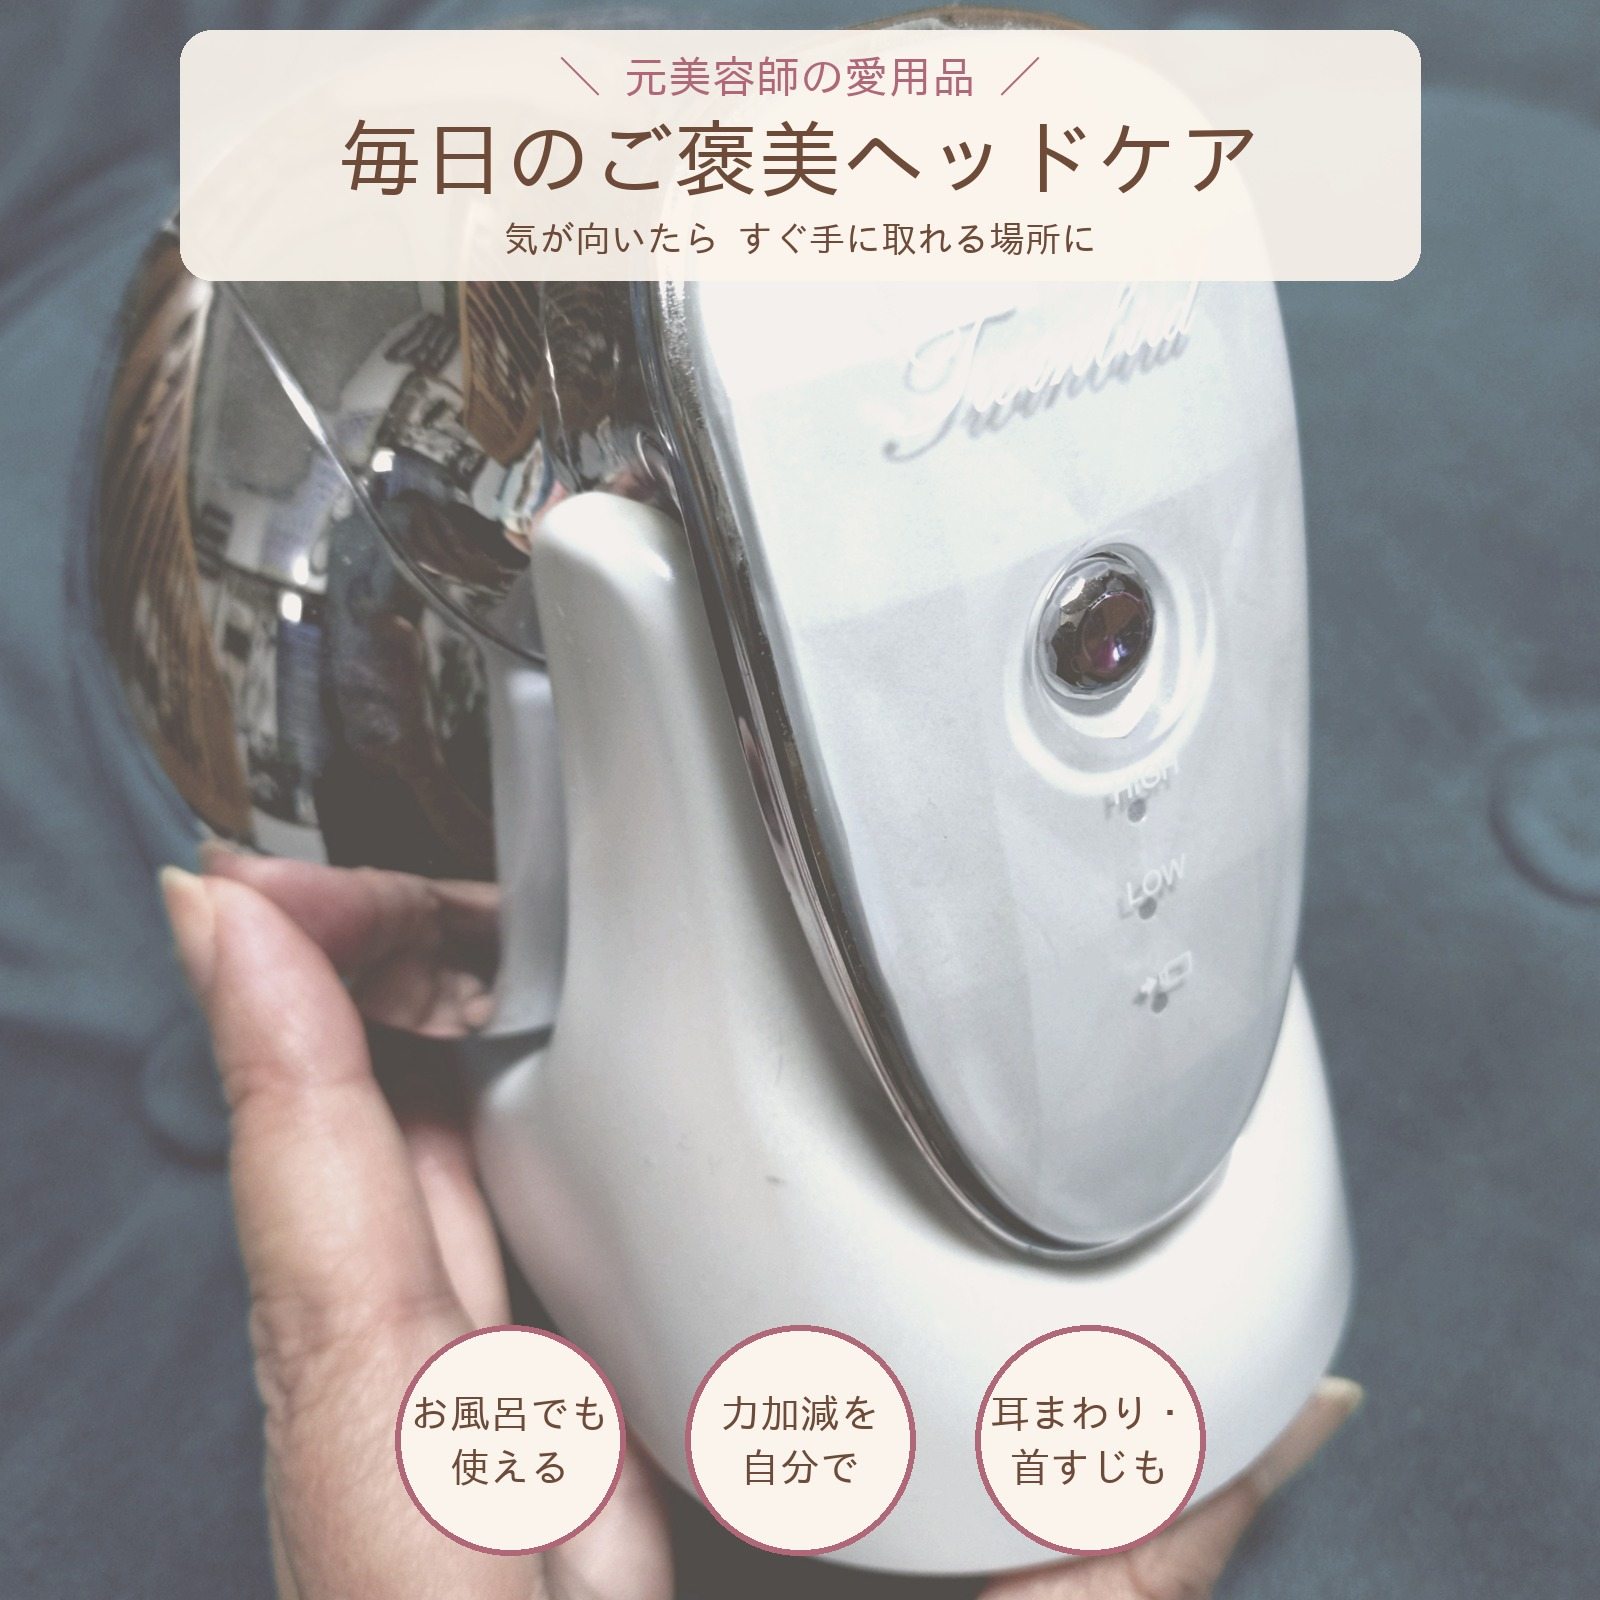
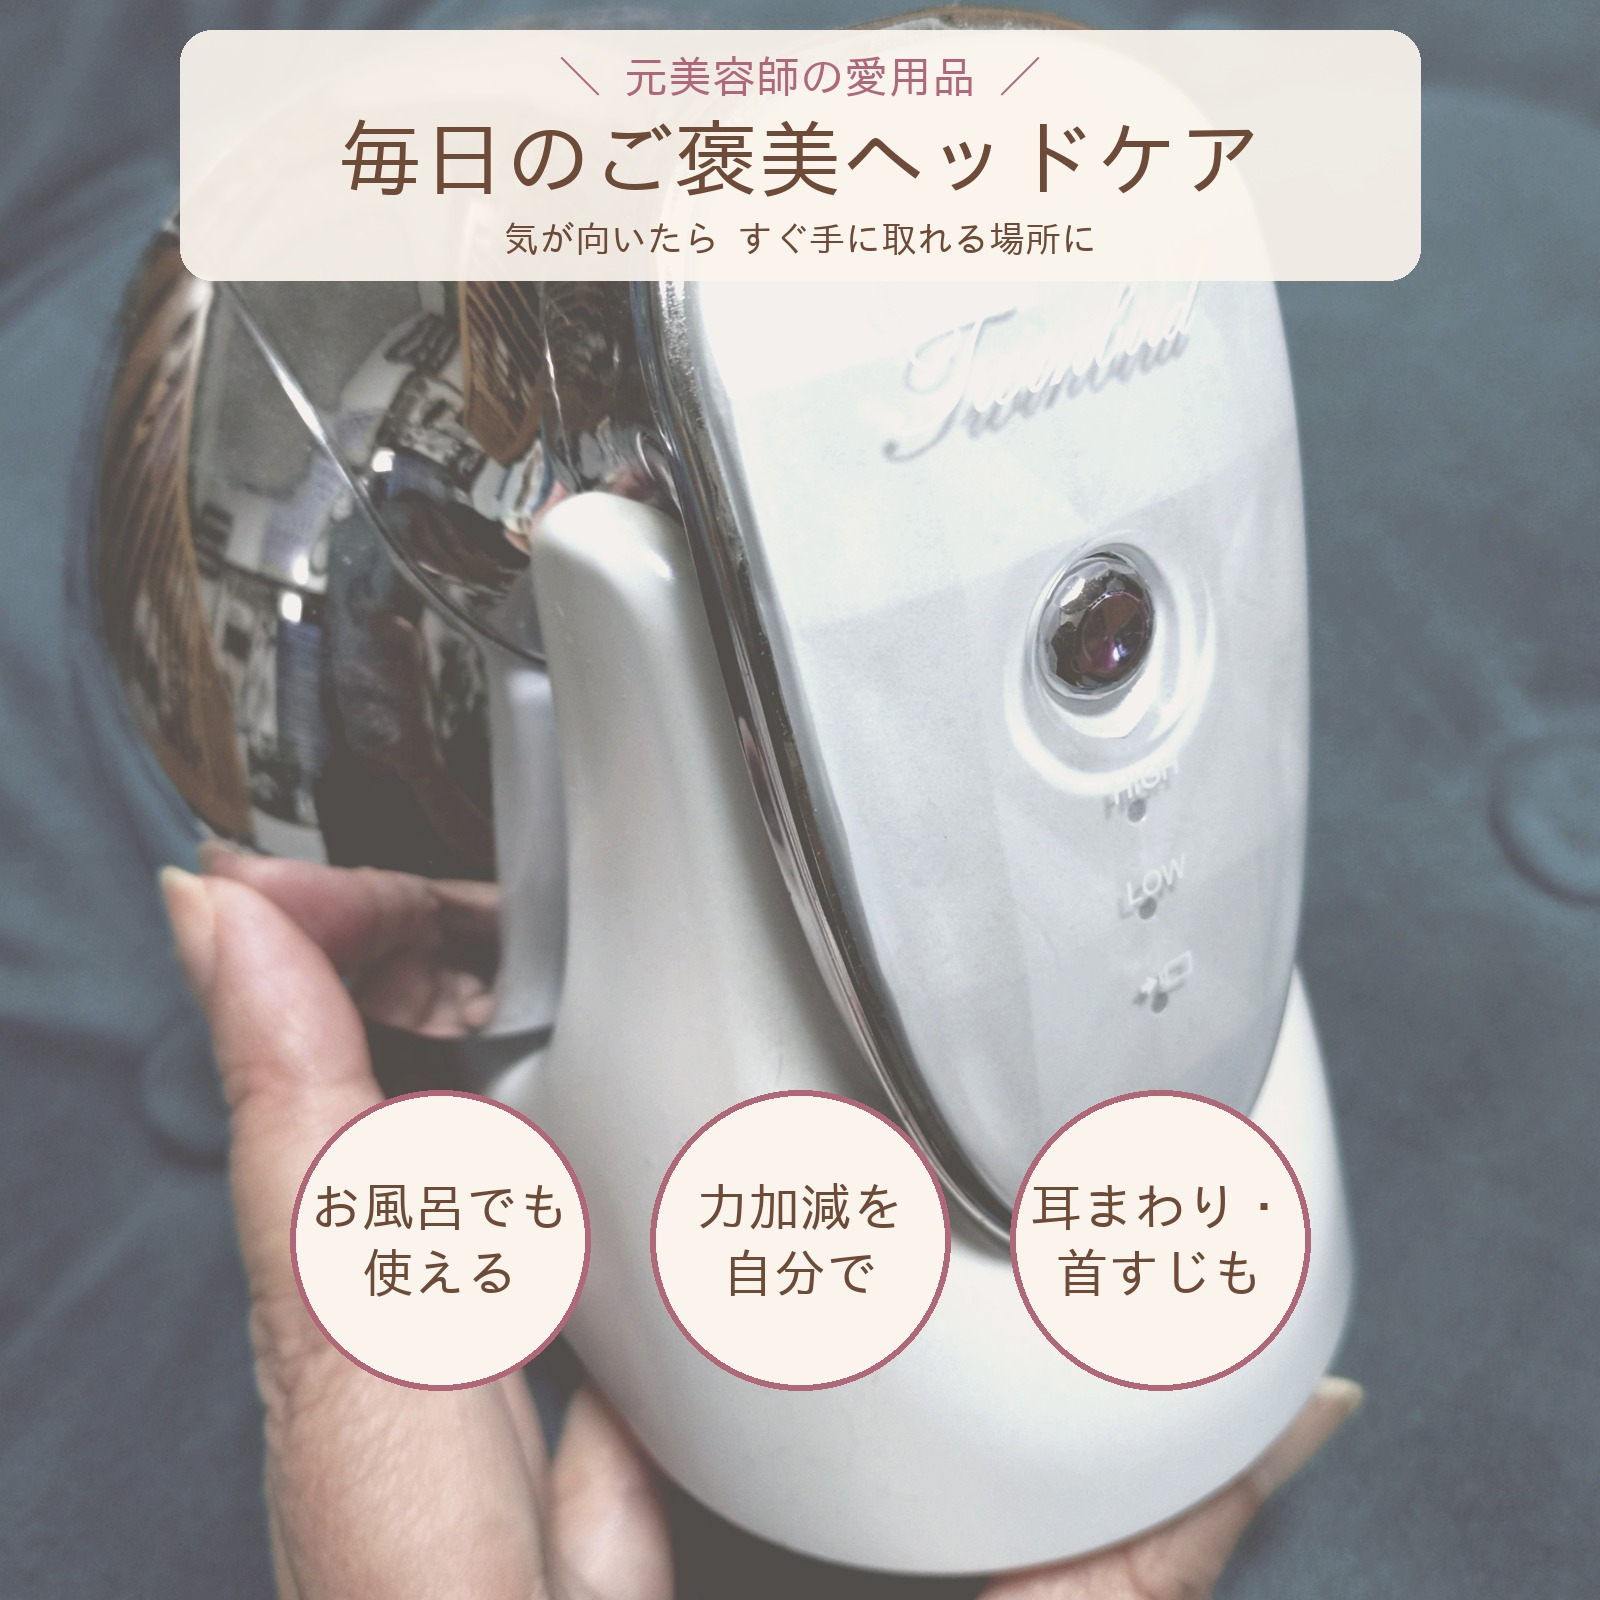
notes: ヘッドケアの写真 1 枚目の丸を元の大きさに戻した
Claude-Session: https://claude.ai/code/session_01VJoHUhWWca3qLzkrqkKFAE

Changed region(s): [[0.1562, 0.6562, 0.8438, 0.9688]]

diff --git a/notes/写真/make_ヘッドケア.py b/notes/写真/make_ヘッドケア.py
@@ -48,7 +48,7 @@ def badges(im,items,y=1240,r=150,fs=52,gap=360):
 
 a=square('/root/.claude/uploads/6329eea8-3d42-5fdc-a6f7-6294973fb194/75c2eabb-image.jpg',0.55)
 a=band(a,['＼ 元美容師の愛用品 ／','毎日のご褒美ヘッドケア','気が向いたら すぐ手に取れる場所に'],top=30,small=True)
-a=badges(a,[('お風呂でも','使える'),('力加減を','自分で'),('耳まわり・','首すじも')],y=1440,r=115,fs=40,gap=290)
+a=badges(a,[('お風呂でも','使える'),('力加減を','自分で'),('耳まわり・','首すじも')])
 a.convert('RGB').save('/home/user/claude/notes/写真/ヘッドケア_1.jpg',quality=92)
 
 b=square('/root/.claude/uploads/6329eea8-3d42-5fdc-a6f7-6294973fb194/29ff2612-image.jpg',0.25,0.3)
